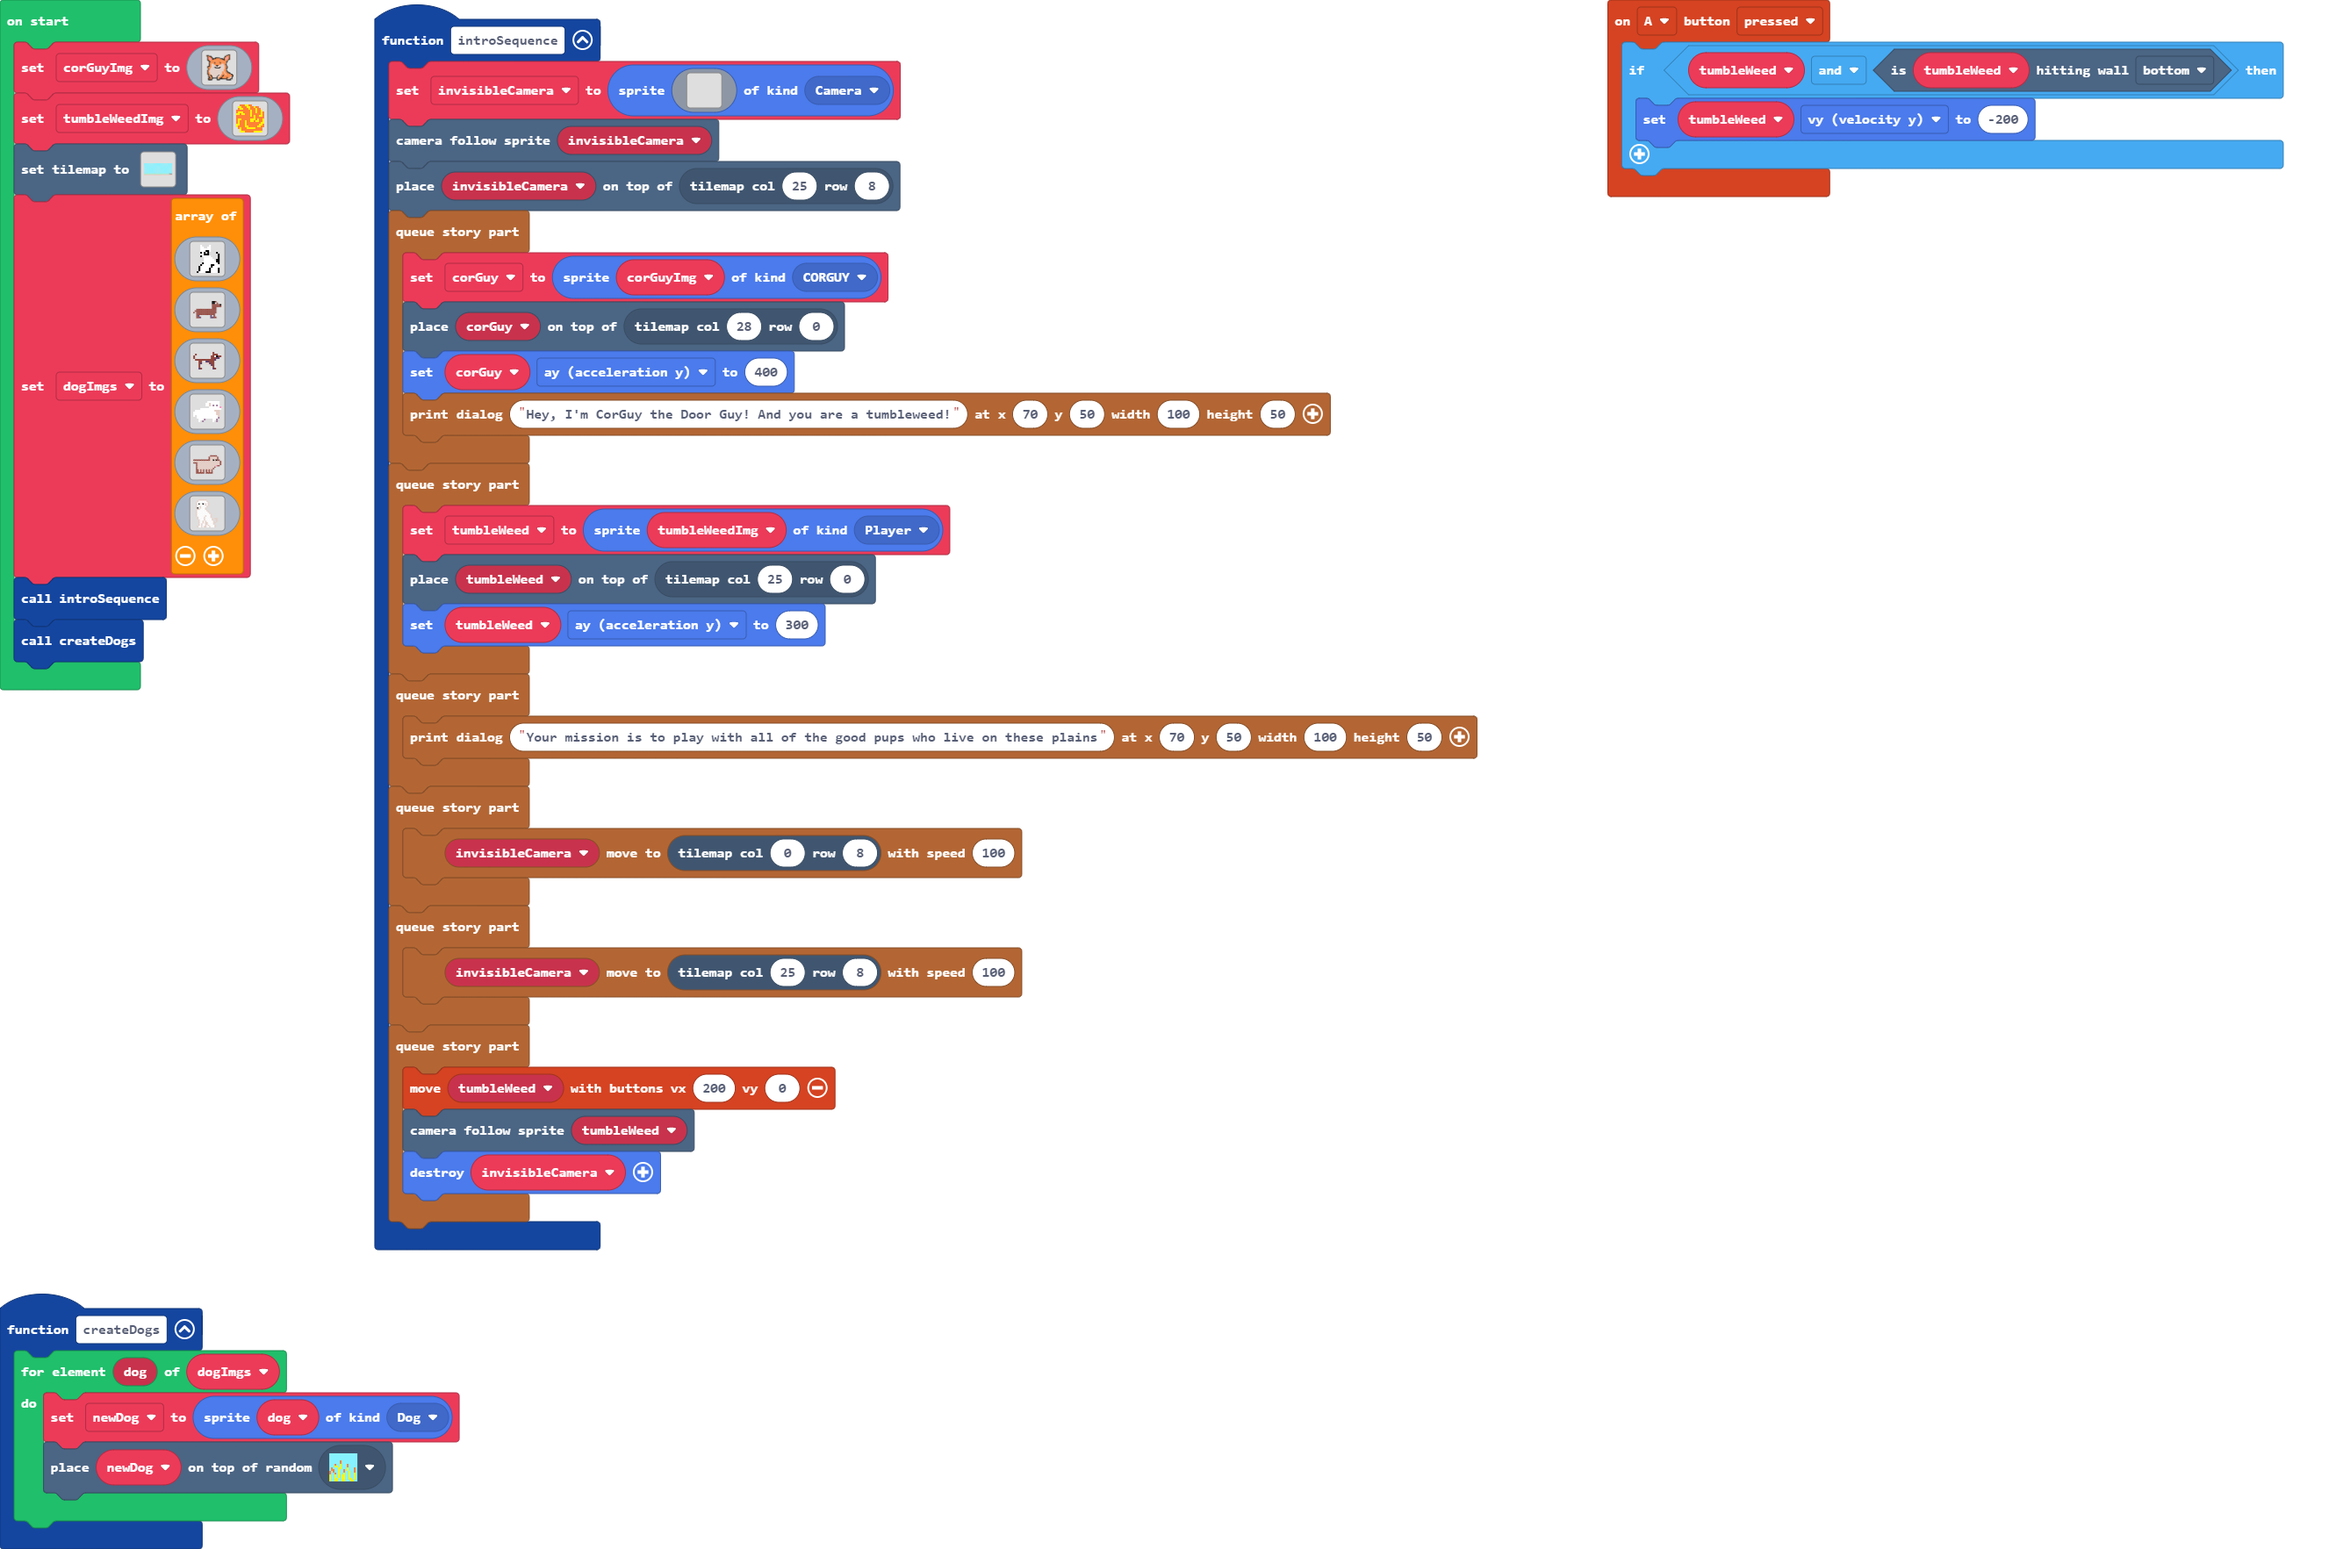
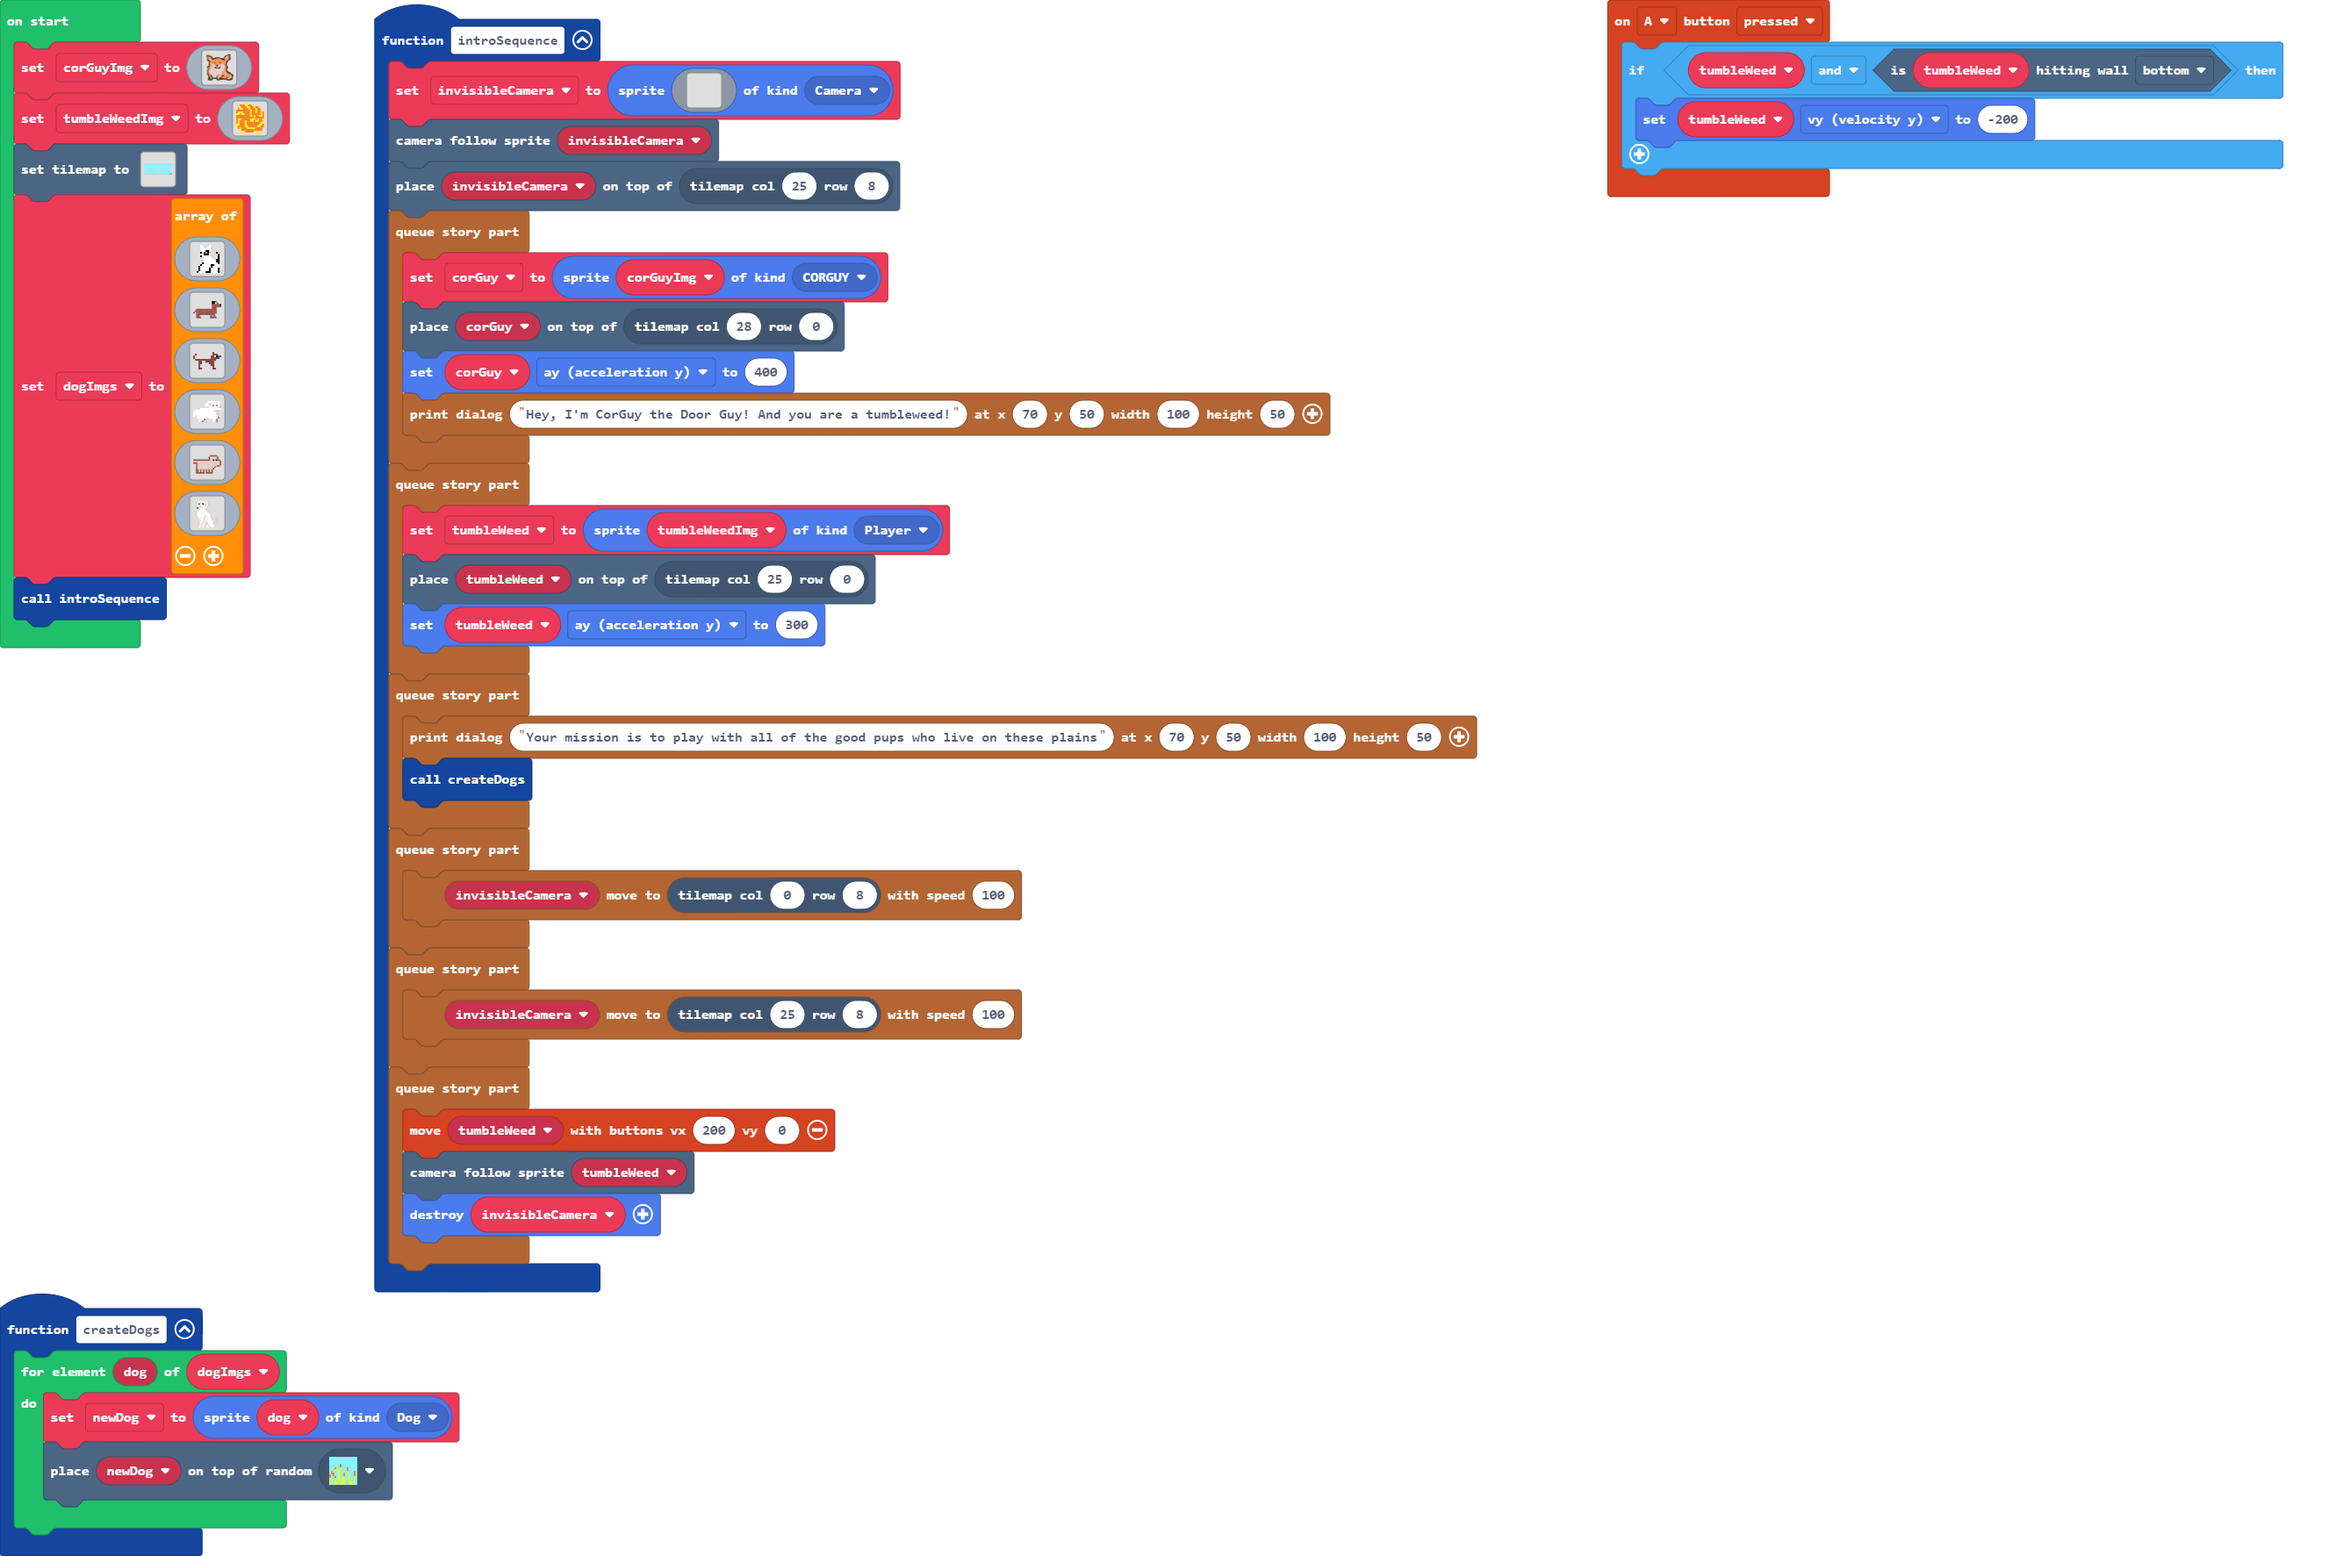
Update pxt.json, main.blocks, main.ts, tilemap.g.jres, tilemap.g.ts, images.g.jres, images.g.ts

diff --git a/tilemap.g.ts b/tilemap.g.ts
@@ -19,9 +19,10 @@ namespace myTiles {
     //% fixedInstance jres blockIdentity=images._tile
     export const tile8 = image.ofBuffer(hex``);
 
-    helpers.registerTilemapFactory(function(name: string) {
+    helpers._registerFactory("tilemap", function(name: string) {
         switch(helpers.stringTrim(name)) {
[1 lines of base64/hex data omitted]
+            case "level":
[1 lines of base64/hex data omitted]
 ..............................
 ..............................
 ..............................
@@ -35,7 +36,22 @@ namespace myTiles {
 ..............................
 ...........................222
 222222222222222222222222222222
-`, [myTiles.transparency16,myTiles.tile1,myTiles.tile2,myTiles.tile3,myTiles.tile4,myTiles.tile5,myTiles.tile7,myTiles.tile8], TileScale.Sixteen)
+`, [myTiles.transparency16,myTiles.tile1,myTiles.tile2,myTiles.tile3,myTiles.tile4,myTiles.tile5,myTiles.tile7,myTiles.tile8], TileScale.Sixteen);
+        }
+        return null;
+    })
+
+    helpers._registerFactory("tile", function(name: string) {
+        switch(helpers.stringTrim(name)) {
+            case "transparency16":return transparency16;
+            case "tile1":return tile1;
+            case "tile2":return tile2;
+            case "tile3":return tile3;
+            case "tile4":return tile4;
+            case "tile5":return tile5;
+            case "tile6":return tile6;
+            case "tile7":return tile7;
+            case "tile8":return tile8;
         }
         return null;
     })

diff --git a/main.ts b/main.ts
@@ -50,6 +50,7 @@ function introSequence () {
         controller.moveSprite(tumbleWeed, 200, 0)
         scene.cameraFollowSprite(tumbleWeed)
         invisibleCamera.destroy()
+        introFinished = true 
     })
 }
 controller.A.onEvent(ControllerButtonEvent.Pressed, function () {
@@ -60,9 +61,33 @@ controller.A.onEvent(ControllerButtonEvent.Pressed, function () {
 function createDogs () {
     for (let dog of dogImgs) {
         newDog = sprites.create(dog, SpriteKind.Dog)
-        tiles.placeOnRandomTile(newDog, myTiles.tile4)
+        tiles.placeOnRandomTile(newDog, assets.tile`tile4`)
     }
+sprites.onOverlap(SpriteKind.Player, SpriteKind.Dog, function(thePlayer: Sprite, theDog: Sprite) {
+    if (!isPlaying && introFinished){
+        isPlaying = true
+        story.queueStoryPart(function() {
+            controller.moveSprite(thePlayer, 0, 0)
+            thePlayer.follow(theDog, 200)
+            story.spriteMoveToTile(theDog, tiles.getTileLocation (randint(0, 24), 11), 200)
+            theDog.startEffect(effects.smiles, 700)
+        })
+
+        
+        //After dog is finished playing
+        story.queueStoryPart(function() {
+            controller.moveSprite(thePlayer, 200, 0)
+            thePlayer.follow(null)
+            isPlaying = false
+            theDog.setKind(SpriteKind.HappyDog)
+        })
+        
+   }
+})
+
 }
+let introFinished = false
+let isPlaying = false 
 let newDog: Sprite = null
 let tumbleWeed: Sprite = null
 let corGuy: Sprite = null
@@ -225,4 +250,3 @@ img`
     `
 ]
 introSequence()
- 

diff --git a/images.g.ts b/images.g.ts
@@ -1,0 +1,19 @@
+// Auto-generated code. Do not edit.
+namespace myImages {
+
+    helpers._registerFactory("image", function(name: string) {
+        switch(helpers.stringTrim(name)) {
+
+        }
+        return null;
+    })
+
+    helpers._registerFactory("animation", function(name: string) {
+        switch(helpers.stringTrim(name)) {
+
+        }
+        return null;
+    })
+
+}
+// Auto-generated code. Do not edit.
